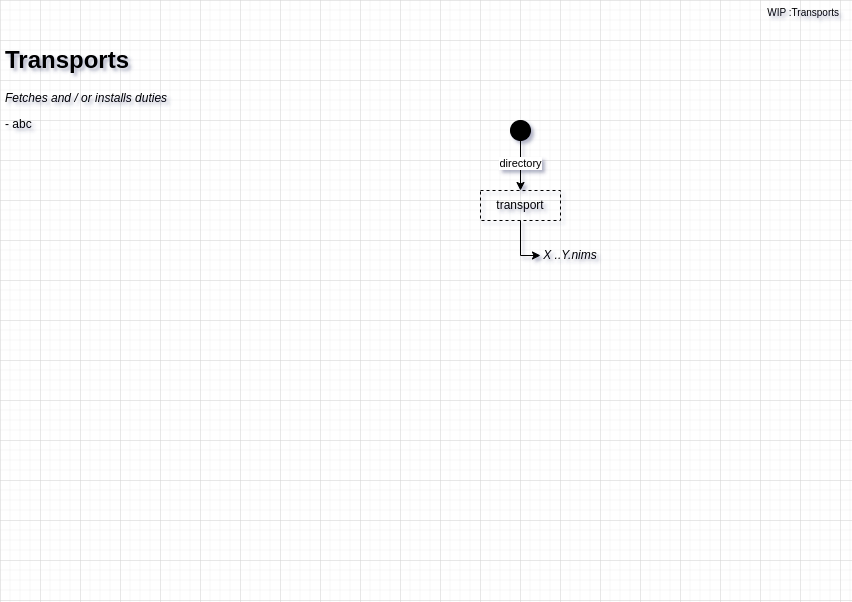
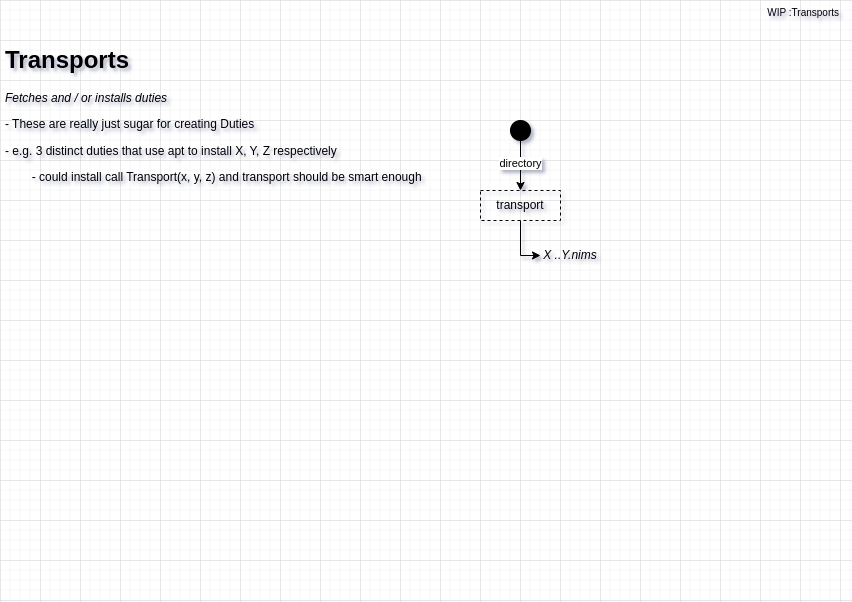
ADRs round 7

Changed region(s): [[0.0, 0.1794, 0.4883, 0.3289]]

diff --git a/README.md b/README.md
@@ -17,3 +17,4 @@
   - nah this TODO doesnt make sense
 - i have a feeling we're going to regret using nimscript instead of just compiling to C
   - swing back to this once the ADRs stabilize and BEFORE moving repo to nirv
+  - upgrading from nimscript is straight forward; shouldnt be an issue when the time comes

diff --git a/src/boat/duty/readme.rst b/src/boat/duty/readme.rst
@@ -14,11 +14,8 @@ Interface
 - rm Script(Transport): bool
 - rmForce Script(Transport): bool
 - transport set[enum] supported by this duty
-- workflow
 
 
-Attributes
-----------
-- workflow
-
-  - X..Y Script
+Types
+-----
+- self of Script
